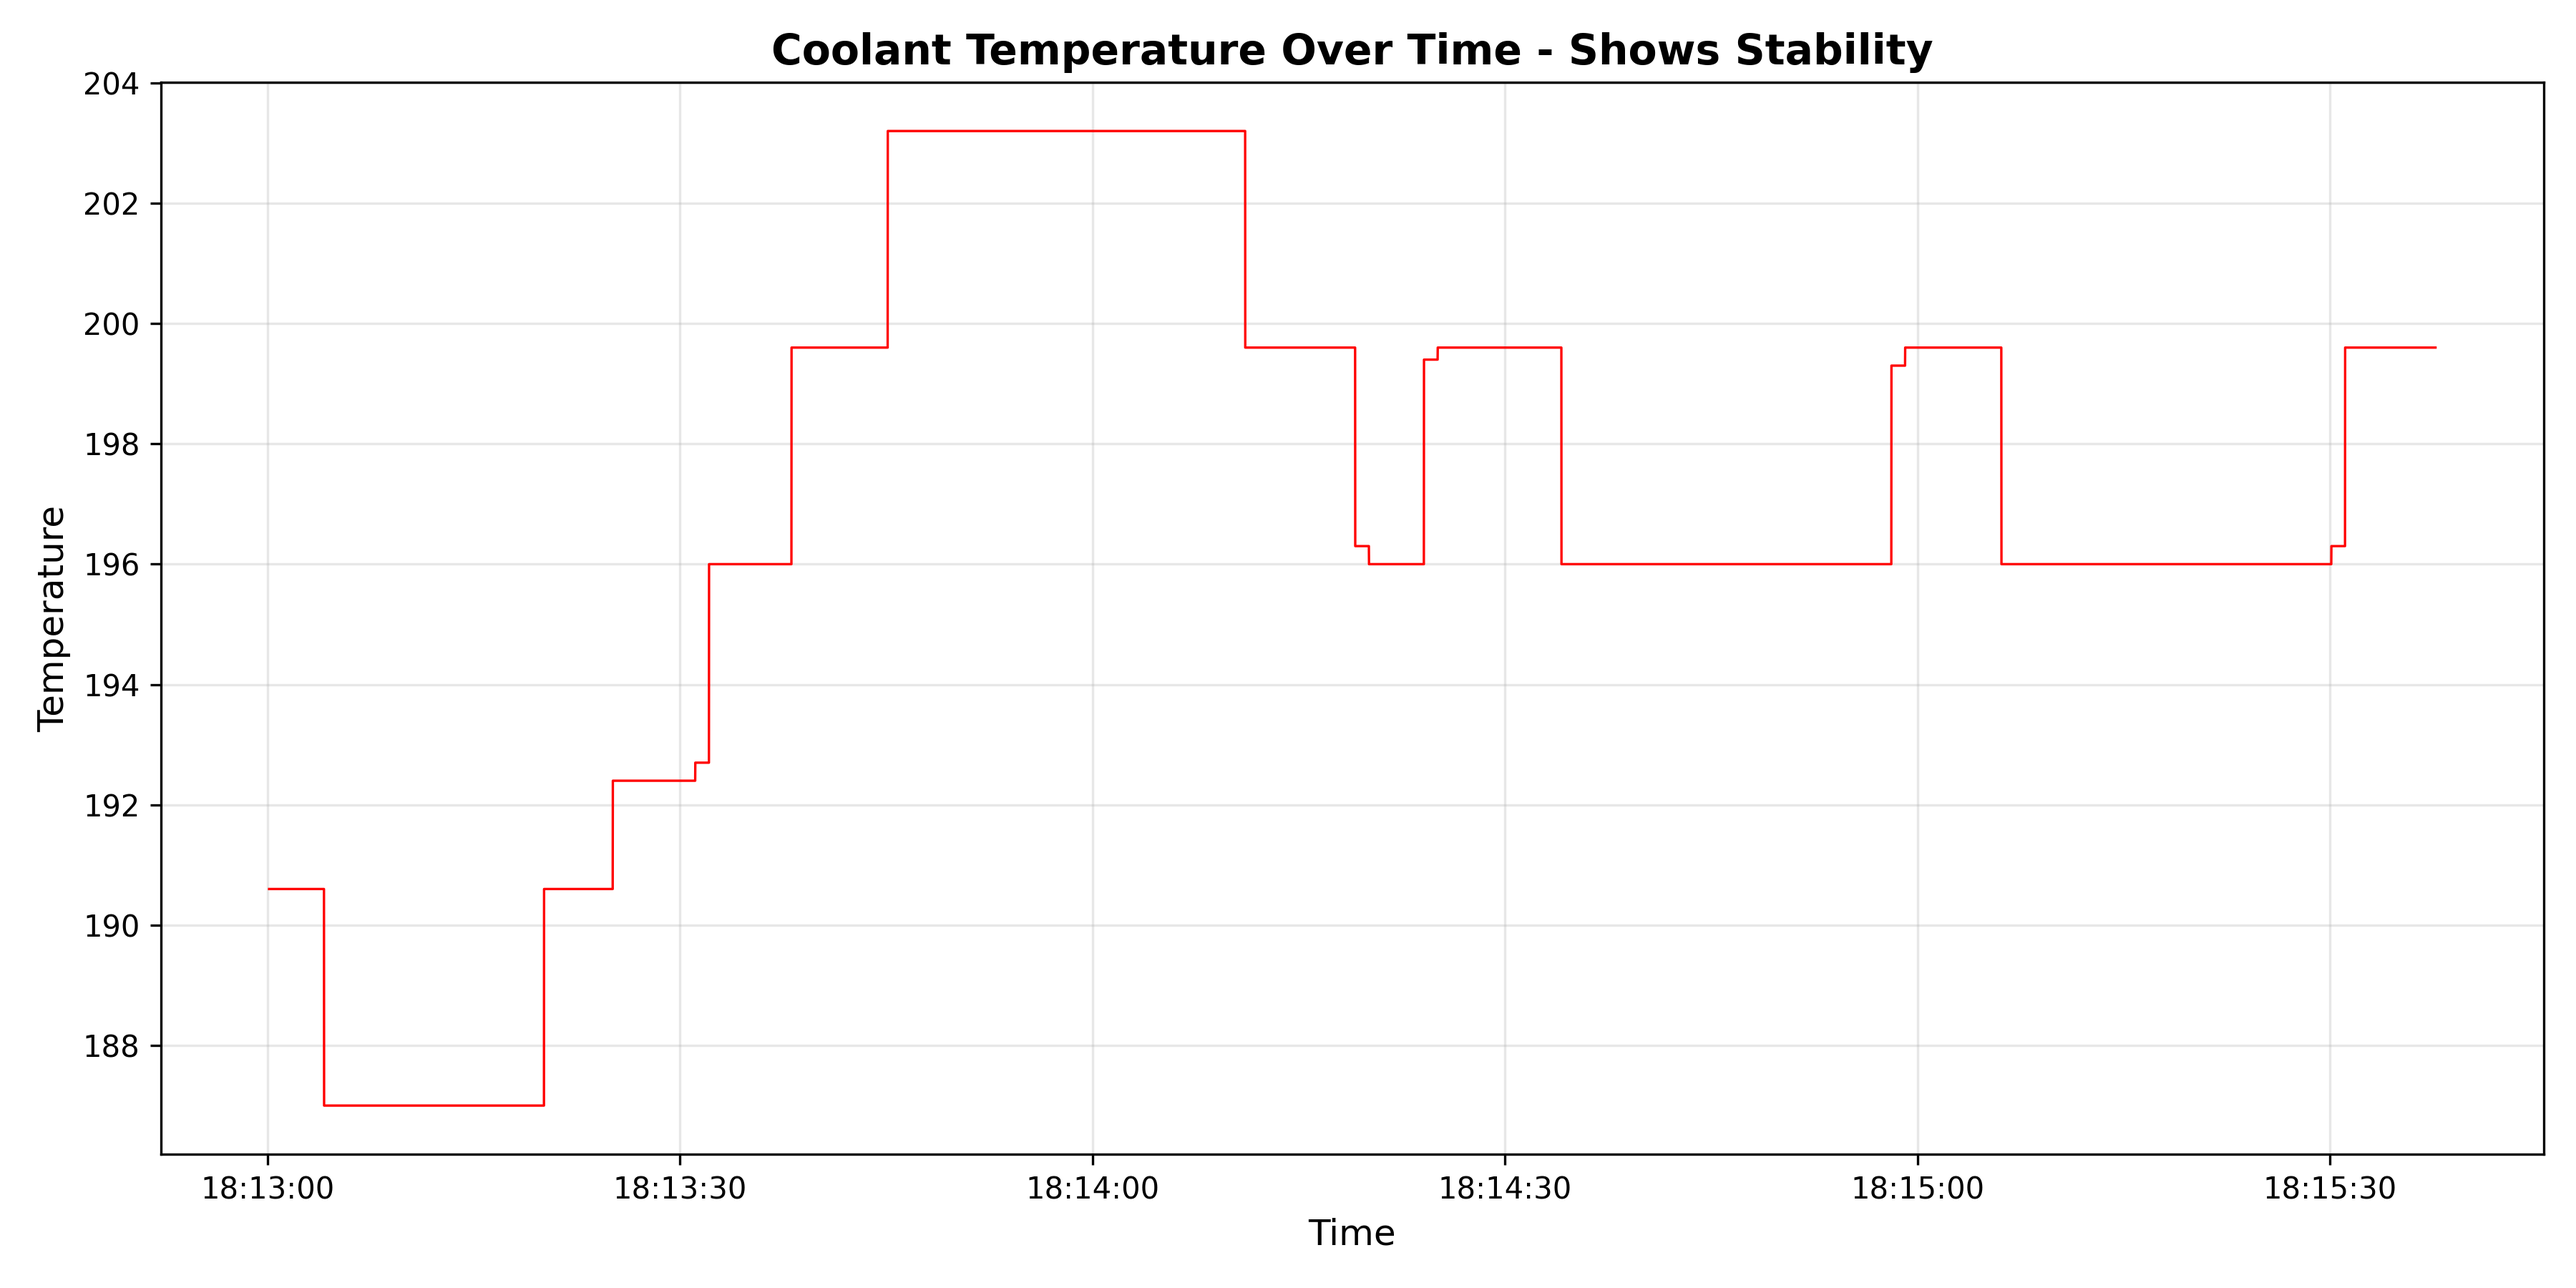
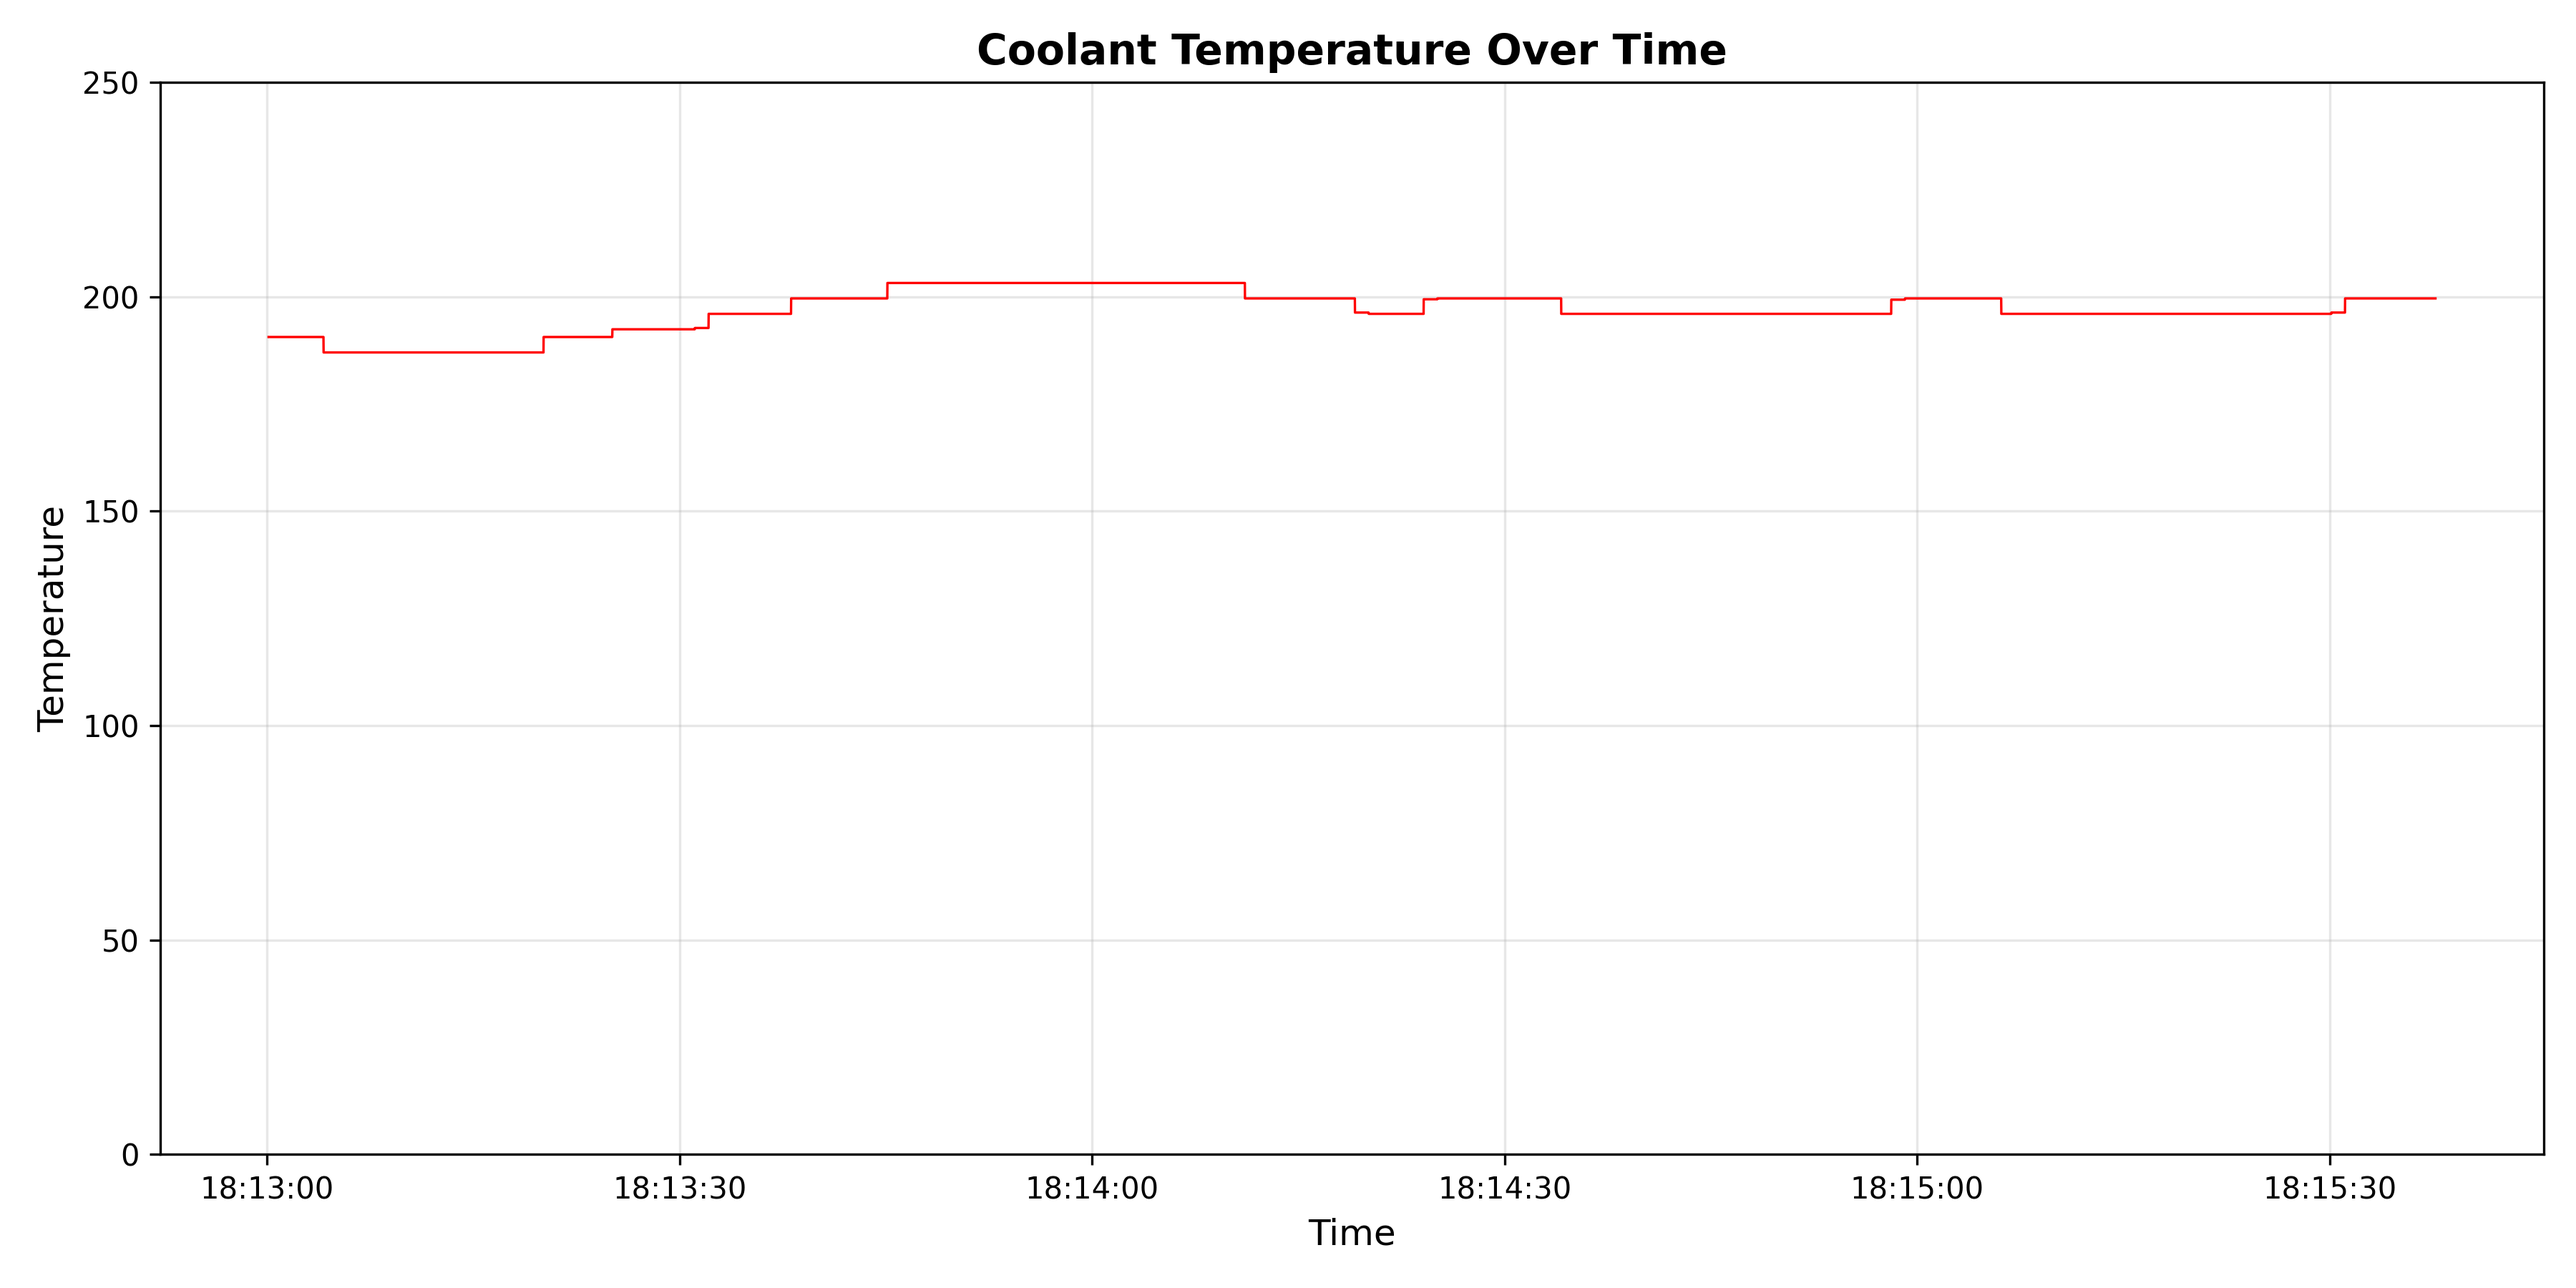
Messing around with graphs

diff --git a/data_analysis.py b/data_analysis.py
@@ -106,13 +106,48 @@ plt.close()
 # Graph 2: Temperature Stability Over Time
 plt.figure(figsize=(12, 6))
 plt.plot(df_clean['timestamp'], df_clean['Coolant Temp'], color='red', linewidth=0.8)
-plt.title('Coolant Temperature Over Time - Shows Stability', fontsize=14, fontweight='bold')
+plt.title('Coolant Temperature Over Time', fontsize=14, fontweight='bold')
 plt.xlabel('Time', fontsize=12)
 plt.ylabel('Temperature', fontsize=12)
+plt.ylim(0, 250)
 plt.grid(True, alpha=0.3)
 plt.tight_layout()
 plt.savefig('temperature_stability.png', dpi=300)
 print("Graph 2: temperature_stability.png")
-print("  (Visualizes the temperature stability mentioned in analysis)")
 plt.close()
 
+# Graph 3: RPM vs Throttle Position (Scatter Plot)
+plt.figure(figsize=(10, 6))
+plt.scatter(df_clean['TPS'], df_clean['RPM'], alpha=0.5, s=10, color='green')
+plt.title('Engine RPM vs Throttle Position', fontsize=14, fontweight='bold')
+plt.xlabel('Throttle Position (%)', fontsize=12)
+plt.ylabel('RPM', fontsize=12)
+plt.grid(True, alpha=0.3)
+plt.tight_layout()
+plt.savefig('rpm_vs_throttle.png', dpi=300)
+print("Graph 3: rpm_vs_throttle.png")
+plt.close()
+
+# Graph 4: RPM Distribution (Histogram)
+plt.figure(figsize=(10, 6))
+plt.hist(df_clean['RPM'], bins=50, color='purple', alpha=0.7, edgecolor='black')
+plt.title('Distribution of Engine RPM', fontsize=14, fontweight='bold')
+plt.xlabel('RPM', fontsize=12)
+plt.ylabel('Frequency (Number of Occurrences)', fontsize=12)
+plt.grid(True, alpha=0.3, axis='y')
+plt.tight_layout()
+plt.savefig('rpm_distribution.png', dpi=300)
+print("Graph 4: rpm_distribution.png")
+plt.close()
+
+# Graph 5: Throttle Position Over Time
+plt.figure(figsize=(12, 6))
+plt.plot(df_clean['timestamp'], df_clean['TPS'], color='orange', linewidth=0.8)
+plt.title('Throttle Position Over Time', fontsize=14, fontweight='bold')
+plt.xlabel('Time', fontsize=12)
+plt.ylabel('Throttle Position (%)', fontsize=12)
+plt.grid(True, alpha=0.3)
+plt.tight_layout()
+plt.savefig('throttle_over_time.png', dpi=300)
+print("Graph 5: throttle_over_time.png")
+plt.close()

diff --git a/README.md b/README.md
@@ -53,10 +53,35 @@ Coolant temperature didn't vary much, only 16.2 degrees. The low standard deviat
 
 This graph visualizes the RPM range mentioned in analysis, showing how engine speed varied from idle to maximum throughout the test session.
 
+---
+
 ### Graph 2: Coolant Temperature Over Time
 ![Temperature Stability](temperature_stability.png)
 
 This graph visualizes the temperature stability mentioned in analysis, demonstrating consistent cooling system performance despite varying engine loads.
+
+---
+
+### Graph 3: Engine RPM vs Throttle Position
+![RPM vs Throttle](rpm_vs_throttle.png)
+
+This scatter plot shows the relationship between how far the gas pedal was pressed (throttle) and the resulting engine speed (RPM). Each dot represents one moment in time. The pattern shows that higher throttle positions generally result in higher RPMs, though there's variation due to factors like gear selection and vehicle speed.
+
+---
+
+### Graph 4: Distribution of Engine RPM
+![RPM Distribution](rpm_distribution.png)
+
+This histogram shows how much time was spent at different RPM ranges. The tall bars on the left indicate the driver spent most of the time at lower RPMs (2,000-4,000 range), consistent with cruising behavior. The smaller bars extending to the right show occasional high-RPM usage, confirming the mix of casual driving with brief performance bursts.
+
+---
+
+### Graph 5: Throttle Position Over Time
+![Throttle Over Time](throttle_over_time.png)
+
+This graph tracks the gas pedal position throughout the test session. Most of the time, the throttle stays near the bottom (light cruising), but there are several spikes where the driver pushed the pedal down significantly. The spike reaching 100% shows the moment when full throttle was applied.
+
+---
 
 ## Conclusions
 - The vehicle demonstrated high-performance characteristics with a maximum RPM of 12,805
@@ -74,4 +99,10 @@ This graph visualizes the temperature stability mentioned in analysis, demonstra
 - `can_data.csv` - Raw data file
 - `rpm_over_time.png` - RPM visualization
 - `temperature_stability.png` - Temperature visualization
+- `rpm_vs_throttle.png` - RPM vs throttle scatter plot
+- `rpm_distribution.png` - RPM distribution histogram
+- `throttle_over_time.png` - Throttle position visualization
 - `README.md` - This file
+
+# Post Submission Updates:
+- Last three graphs
